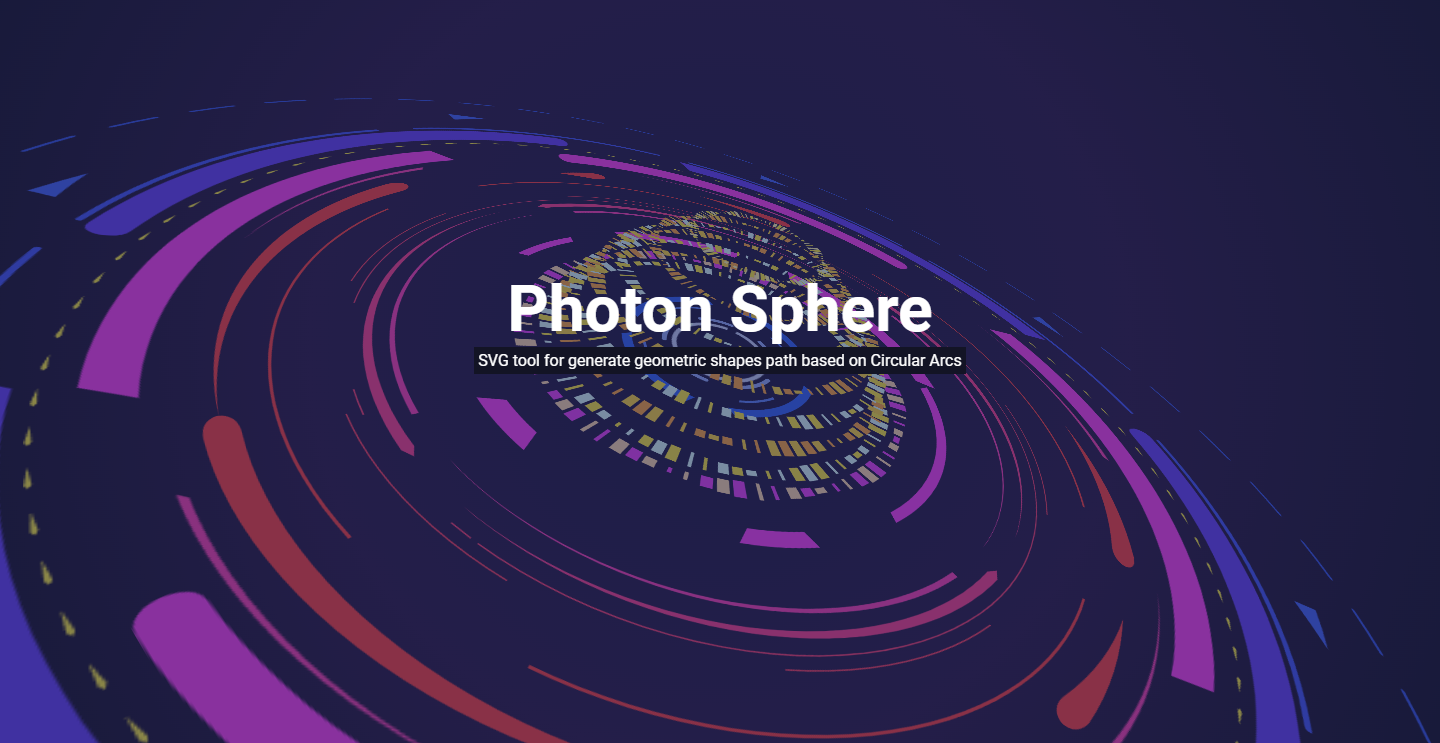
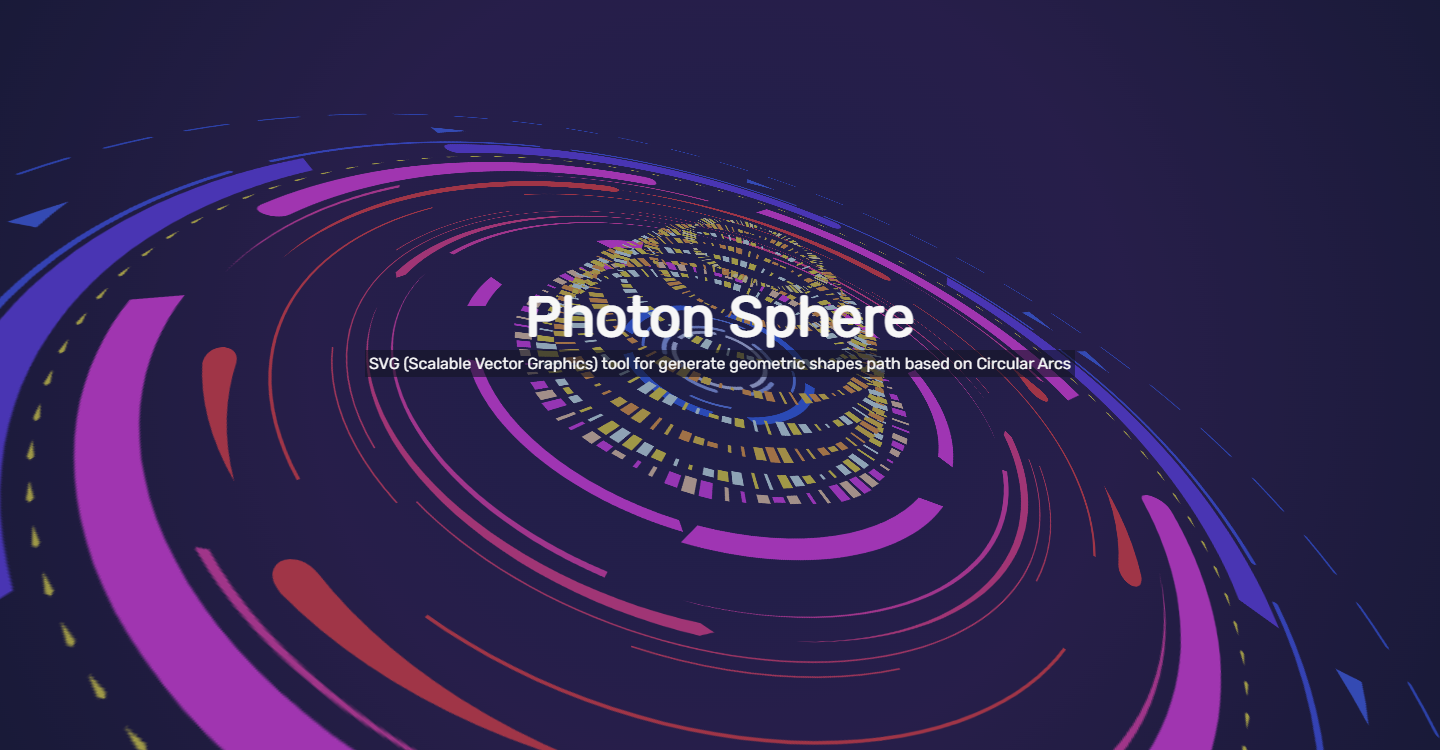
docs: README.md
Update banner

diff --git a/README.md b/README.md
@@ -2,7 +2,7 @@
 
 ![banner.png](/docs/assets/banner.png)
 
-SVG tools for generate geometric shapes path based on Circular Arcs
+SVG tool for generate geometric shapes path based on Circular Arcs
 
 ## Installation
 
